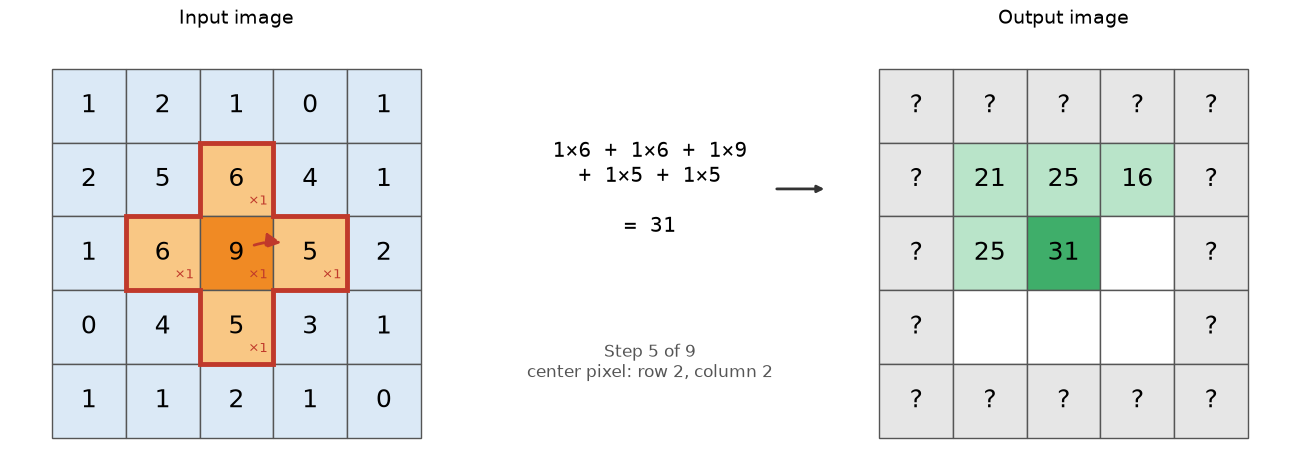
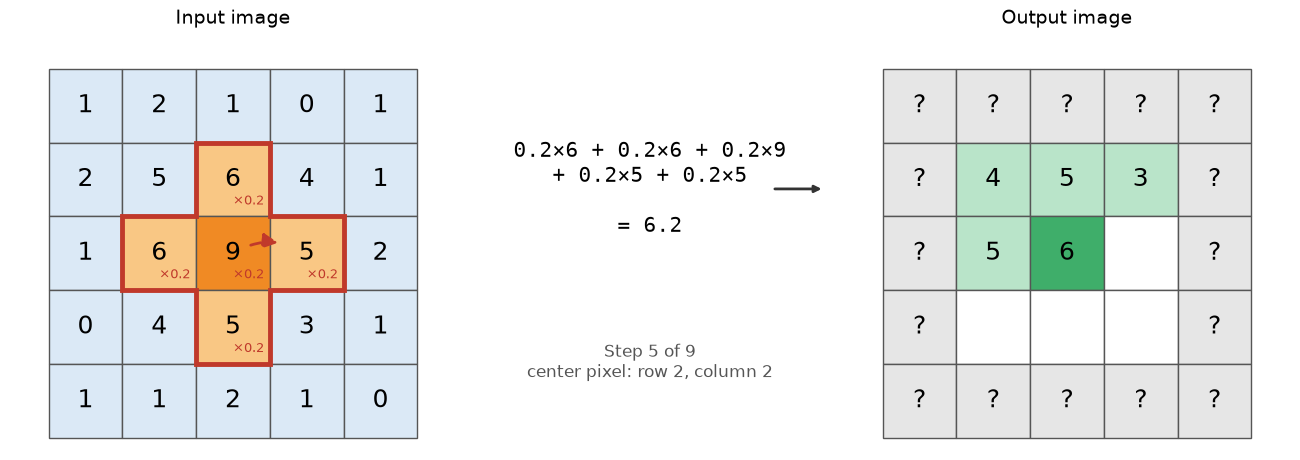
modifying kernel to understand filters

diff --git a/src/convolution_demo.py b/src/convolution_demo.py
@@ -38,9 +38,9 @@ IMAGE = np.array(
 # multiplied with.  The 4 corners are switched off ("None"), so the shape is a
 # plus sign rather than a square.  Try changing the weights and run again.
 KERNEL = [
-    [None, 1, None],
-    [1, 1, 1],
-    [None, 1, None],
+    [None, 0.2, None],
+    [0.2, 0.2, 0.2],
+    [None, 0.2, None],
 ]
 
 INPUT_COLOR = "#dbe9f6"
